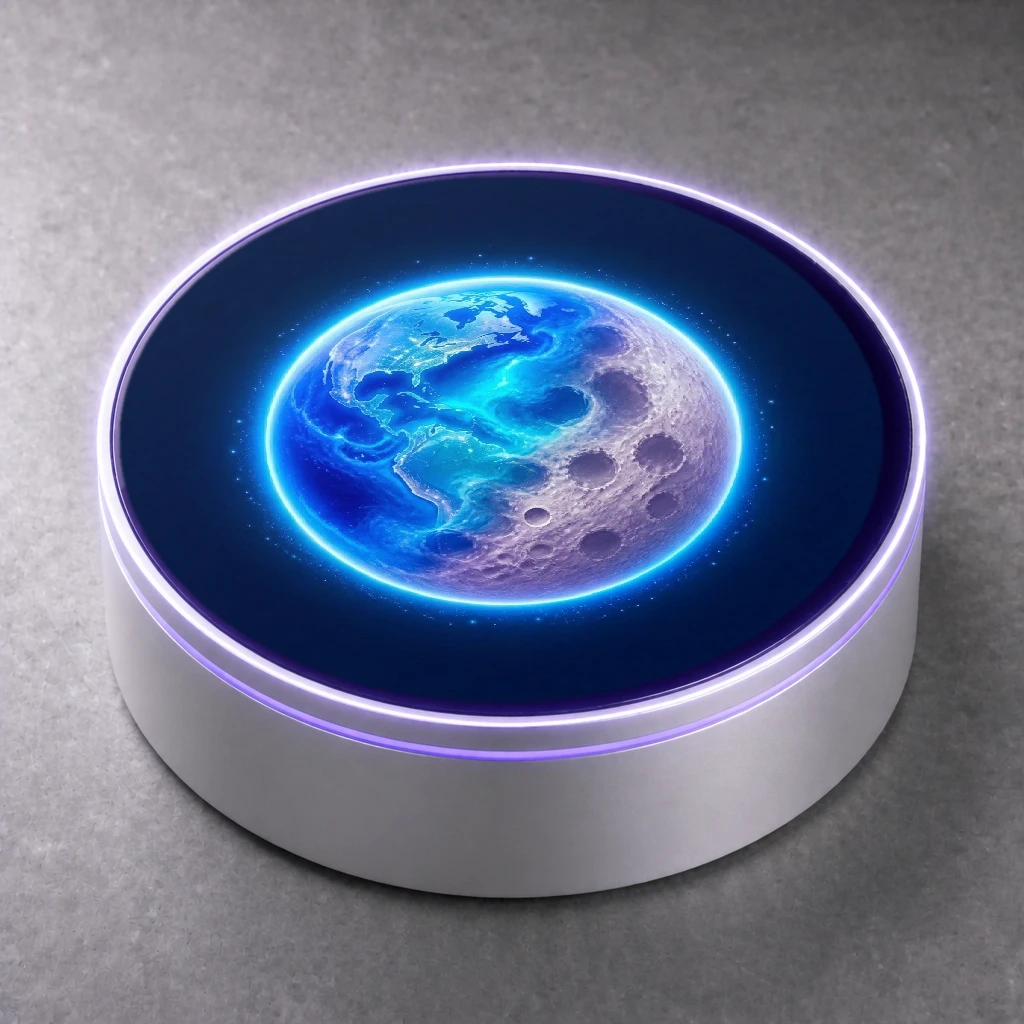
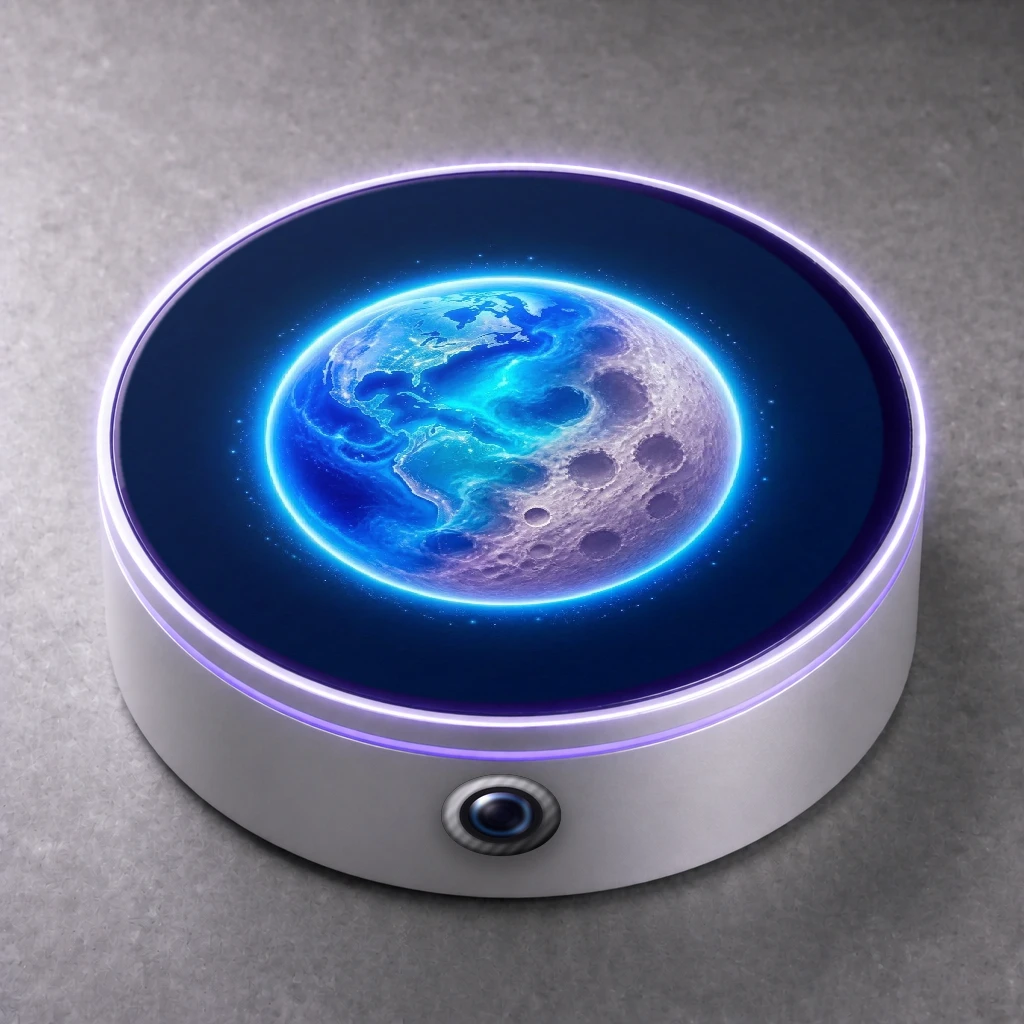
参考画像：Bluena（側面のレンズから投影）を差し替え、ロケットの中A・B・Cを追加して場面ごとに割り当て（M-R81）
Claude-Session: https://claude.ai/code/session_0174ECoA1DqgjCCXDhu4rXyX

Changed region(s): [[0.4375, 0.75, 0.5625, 0.8438]]

diff --git a/docs/story-rewrite/design/refs/places/README.md b/docs/story-rewrite/design/refs/places/README.md
@@ -8,6 +8,9 @@
 | moon-temple-aerial-1.jpg | 月の神殿（上から・正面） | 月面のクレーターの中に建つ、白い神殿の全景。青い魔法陣の床が奥へ続き、両脇に青いドームの小塔。空に地球。→ ロケットが月に着く場面、神殿の外観 |
 | moon-temple-aerial-2.jpg | 月の神殿（上から・斜め） | 同じ神殿を斜めから。月で眠る夜（2日目の終わり）や、3日目の朝の外観にも |
 | rocket.jpg | ロケット | 黒い細長い機体に、金の唐草のような模様。ピンクと水色のネオンの線、オレンジの紋章の光。尾翼は鋭く後ろへ。噴射口は3つ。→ 台本の「細長い古いロケット。胴体に、いろんな星の紋章」は、この金の模様と紋章の光で表す。中は「広すぎる」くらい広い |
+| rocket-inside-a.webp | ロケットの中A | 赤と黒。大理石の床、奥の階段の上に、赤い光の輪を背にした仏像の祭壇と赤い花の木。右に寿司のショーケースのカウンターと赤い椅子、左に丸いソファ席。左の大窓に赤いクレーターの星。→ **3日目 月→土星**（Bluenaで MONBANと話す、謎の書が宙に浮いて札2が滲む）。窓の星は土星の赤茶の大地に |
+| rocket-inside-b.webp | ロケットの中B | 紫と水色のネオン。左の窓の下に夜の地球、窓ぎわに、ドームのふたをかぶった寿司が流れるレーン。奥に光るダンスフロアとバー、右にソファ席。→ **2日目 地球→月**（「ロケット広すぎませんか？」「みてください、、、なんと、、美しい、、、。」で窓の地球） |
+| rocket-inside-c.webp | ロケットの中C | 赤と青のネオン。寿司のカウンター、奥にDJブース、ピンクに光る酒瓶の棚、盆栽。左の窓に赤い星と雲。→ **6日目 火星行き**（音楽の日）。4日目・5日目はAかBで、窓の外の星だけ行き先に合わせる |
 | earth-temple-hall.jpg | 地球の神殿・奥の大広間（OBOLONが現れる場所） | 金色に光る、天井の高い大広間。磨かれた床に光が映りこむ。正面の階段の上に、巨大な金色の光の輪（魔法陣の円盤）。両脇にランタン。→ OBOLONは、この光の輪の前（光の柱の中）に浮かぶ黒い球として現れる。台本の「天球儀が並ぶ、暗い神殿の大広間」は、この金色の大広間に合わせる（OBOLONの「天井が夜空になる」演出は、この天井で） |
 | headquarters-gate.webp | Obolo Order 本部（正面） | 夕焼けと金の光の雲の下、尖塔が並ぶ黒と金の都。正面に巨大な門、門の上の輪の中に、輪をまとった天球儀。門の向こうに丸屋根の神殿。床は黒い石に金の線と羅針盤の紋章。両脇に羅針盤の旗。→ 1日目の〔テロップ：本部に到着しました〕の一枚絵（この画像の文字は、テロップとしてコードで重ねる） |
 | saturn-temple-aerial.jpg | 土星の神殿（上から） | 赤茶の砂の大地に、赤茶の石を積んだ円い段々の神殿。てっぺんに円い紋章の台。まっすぐな石の階段が一本。まわりをタコの石像と石の柱が囲む。夕日の長い影 |

diff --git a/docs/story-rewrite/design/refs/props/README.md b/docs/story-rewrite/design/refs/props/README.md
@@ -22,4 +22,4 @@
 | managem.webp | マナジェム | 手のひらにのる、楕円の透き通った石。中で金色の光がうずを巻き、青い光と光の粒が混ざる。→ 「中の光が、ゆっくり揺れている」。魔法でマナを使うと、光がひと筋こぼれて、少し弱まる |
 | egg-sun-moon.jpg | バティのたまご（太陽と月） | 燃える太陽と白い月（クレーターつき）が、陰陽の形にまざり合ったたまご。黒い宇宙に光の粒。→ 月の神殿の祭壇（D03-S005）。{neo}が二つのうちから選ぶ。※右下の「Genspark」の透かしは使わないこと |
 | egg-earth-moon.jpg | バティのたまご（地球と月） | 青い地球と白い月が、陰陽の形にまざり合ったたまご。ふちが紫〜水色に光る。→ 同上。選ばれなかったほうがKIMORIN⭐のたまご。※「Genspark」の透かしは使わないこと |
-| bluena.webp | Bluena | 白くて低い円柱のデバイス。ふちに紫の光の線。上の面は濃い紺で、地球と月がひとつになった青い光の球が浮かぶ。→ 3日目の朝にOBOLONが二人に一つずつ渡す（D04-S002）。光って、壁に正方形のスクリーンを映す |
+| bluena.webp | Bluena | 白くて低い円柱のデバイス。ふちに紫の光の線。上の面は濃い紺で、地球と月がひとつになった青い光の球が浮かぶ。側面に小さな丸いレンズ。→ 3日目の朝にOBOLONが二人に一つずつ渡す（D04-S002）。**投影の仕組み：側面のレンズから光が水平にまっすぐ飛び、壁に正方形のスクリーンが映る**（上の球が映すのではない） |

diff --git a/docs/story-rewrite/wip/decisions_round19.md b/docs/story-rewrite/wip/decisions_round19.md
@@ -390,3 +390,8 @@
 ## M-R80 たまごとBluenaの絵（第20稿・利用者決定）
 - バティが生まれるたまごは2種類：「太陽と月」の陰陽のたまご、「地球と月」の陰陽のたまご（参考画像 props/egg-sun-moon.jpg・egg-earth-moon.jpg）。{neo}が好きなほうを選び、残ったほうをKIMORIN⭐が使う。OBOLONの台詞は「陰と、陽の力で、、、このたまごは、生まれた。」に。
 - Bluenaは参考画像 props/bluena.webp どおり（白い低い円柱、ふちが紫に光る、上の面に地球と月がひとつになった青い光の球）。
+
+## M-R81 Bluenaの投影とロケットの中（第20稿・利用者決定）
+- Bluenaは側面に小さなレンズがあり、投影するときはそこから光がまっすぐ飛んで、壁に正方形のスクリーンが映る（参考画像 props/bluena.webp を差し替え）。
+- ロケットの中の絵は3種類（places/rocket-inside-a・b・c.webp）。場面ごとの使い分け：B（紫と水色、寿司のレーンとダンスフロア、窓の下に地球）＝2日目 地球→月。A（赤、奥に仏像の祭壇、窓に赤い星）＝3日目 月→土星（MONBANとの話、謎の書の札2）。C（赤と青、寿司カウンターとDJブース、窓に赤い星）＝6日目 火星行き（音楽の日）。4日目（木星行き）・5日目（水星行き）はAかBを使い、窓の外の星だけ行き先に合わせて変える。
+- まだ絵がない、謎の書と札、祭壇、土星の空の輪、MONBANの煙、KIMORINのドラゴンの羽は、UIチャットが今ある絵に合わせて生成する。

diff --git a/docs/story-rewrite/土星まで_本番制作依頼.md b/docs/story-rewrite/土星まで_本番制作依頼.md
@@ -16,11 +16,10 @@
 
 ## 3. まだ絵がないもの（基準の絵の質感・色に合わせて生成）
 - 謎の書（古い革の本）と金色の札8枚（文字が滲み出る演出用）
-- Bluenaが映す正方形のスクリーン（Bluena本体は props/bluena.webp）
+- Bluenaが映す正方形のスクリーン（Bluena本体は props/bluena.webp。側面のレンズから光がまっすぐ飛んで壁に映る）
 - 月の神殿の奥の祭壇（たまご二つは props/egg-sun-moon.jpg・egg-earth-moon.jpg。{neo}が選び、残ったほうがKIMORIN⭐のたまご）
 - 土星の空の巨大な輪（土星の神殿の正面・上からの絵に足す）、土星の空を舞うコロリンのリング
 - 本部の門の前の黒い煙（MONBANの登場）
-- ロケットの中（広すぎる客室と、窓から見える地球・月・土星）
 - KIMORINの戻ったあとの姿（通常時の絵に、扇の尾のあいだの小さなドラゴンの羽を一枚足す）
 
 ## 4. 作り方（これまでの依頼文の決まりをすべて守る）

diff --git a/docs/story-rewrite/review/全編_読む用.md b/docs/story-rewrite/review/全編_読む用.md
@@ -397,7 +397,7 @@ OBOLON「でも、、、大丈夫だ。渡したいものが、ある。」
 〔テロップ：Bluenaを手に入れた〕
 OBOLON「Bluena、だ。地球のブルーに、月のルナ、その名の通り、地球と月、宇宙を繋げるものだ。星を越えても、、、これで、話せる。」
 〔ボタン：Bluenaで投影する〕
-（押す）〔Bluenaが光り、神殿の白い壁に、正方形のスクリーンが映る。スクリーンの中に、地球の本部の門の前に立つMONBAN〕
+（押す）〔Bluenaの側面の小さなレンズが光り、光がまっすぐ伸びて、神殿の白い壁に、正方形のスクリーンが映る。スクリーンの中に、地球の本部の門の前に立つMONBAN〕
 MONBAN（スクリーンの中）「……聞こえるか…。」
 KIMORIN「……これは....まあまあの発明品ですね。まぁ私の発明の方がすごいですけど」
 うんちピンポンくん「ピンポンピンポン！」

diff --git a/docs/story-rewrite/review/DAY3.md b/docs/story-rewrite/review/DAY3.md
@@ -27,7 +27,7 @@ OBOLON「でも、、、大丈夫だ。渡したいものが、ある。」
 〔テロップ：Bluenaを手に入れた〕
 OBOLON「Bluena、だ。地球のブルーに、月のルナ、その名の通り、地球と月、宇宙を繋げるものだ。星を越えても、、、これで、話せる。」
 〔ボタン：Bluenaで投影する〕
-（押す）〔Bluenaが光り、神殿の白い壁に、正方形のスクリーンが映る。スクリーンの中に、地球の本部の門の前に立つMONBAN〕
+（押す）〔Bluenaの側面の小さなレンズが光り、光がまっすぐ伸びて、神殿の白い壁に、正方形のスクリーンが映る。スクリーンの中に、地球の本部の門の前に立つMONBAN〕
 MONBAN（スクリーンの中）「……聞こえるか…。」
 KIMORIN「……これは....まあまあの発明品ですね。まぁ私の発明の方がすごいですけど」
 うんちピンポンくん「ピンポンピンポン！」
